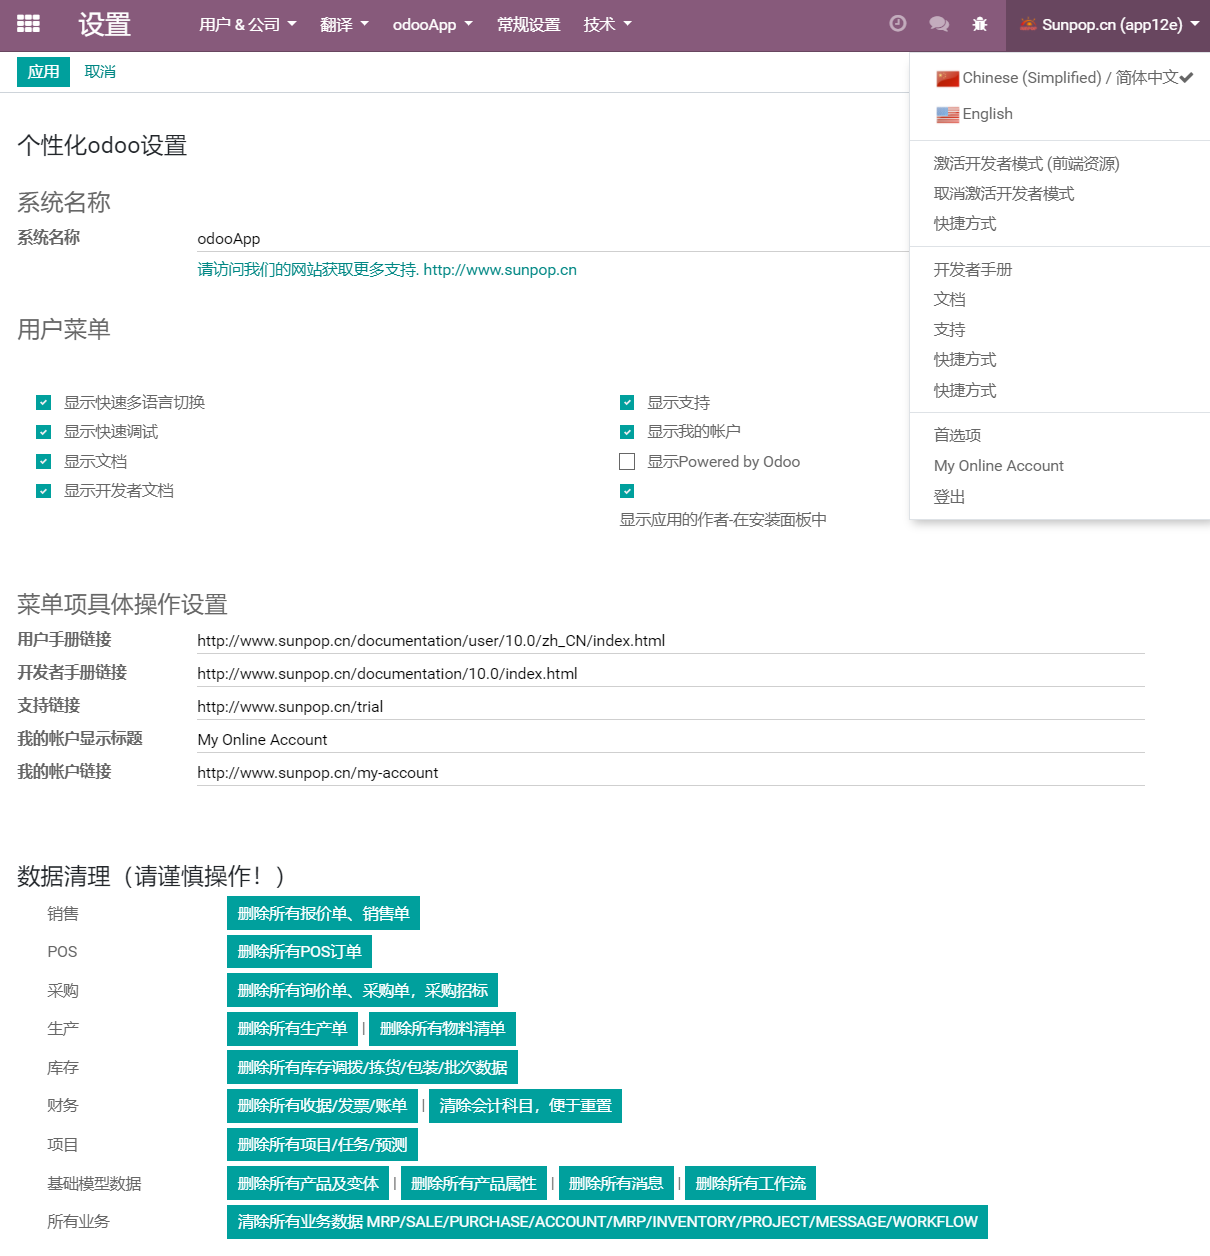
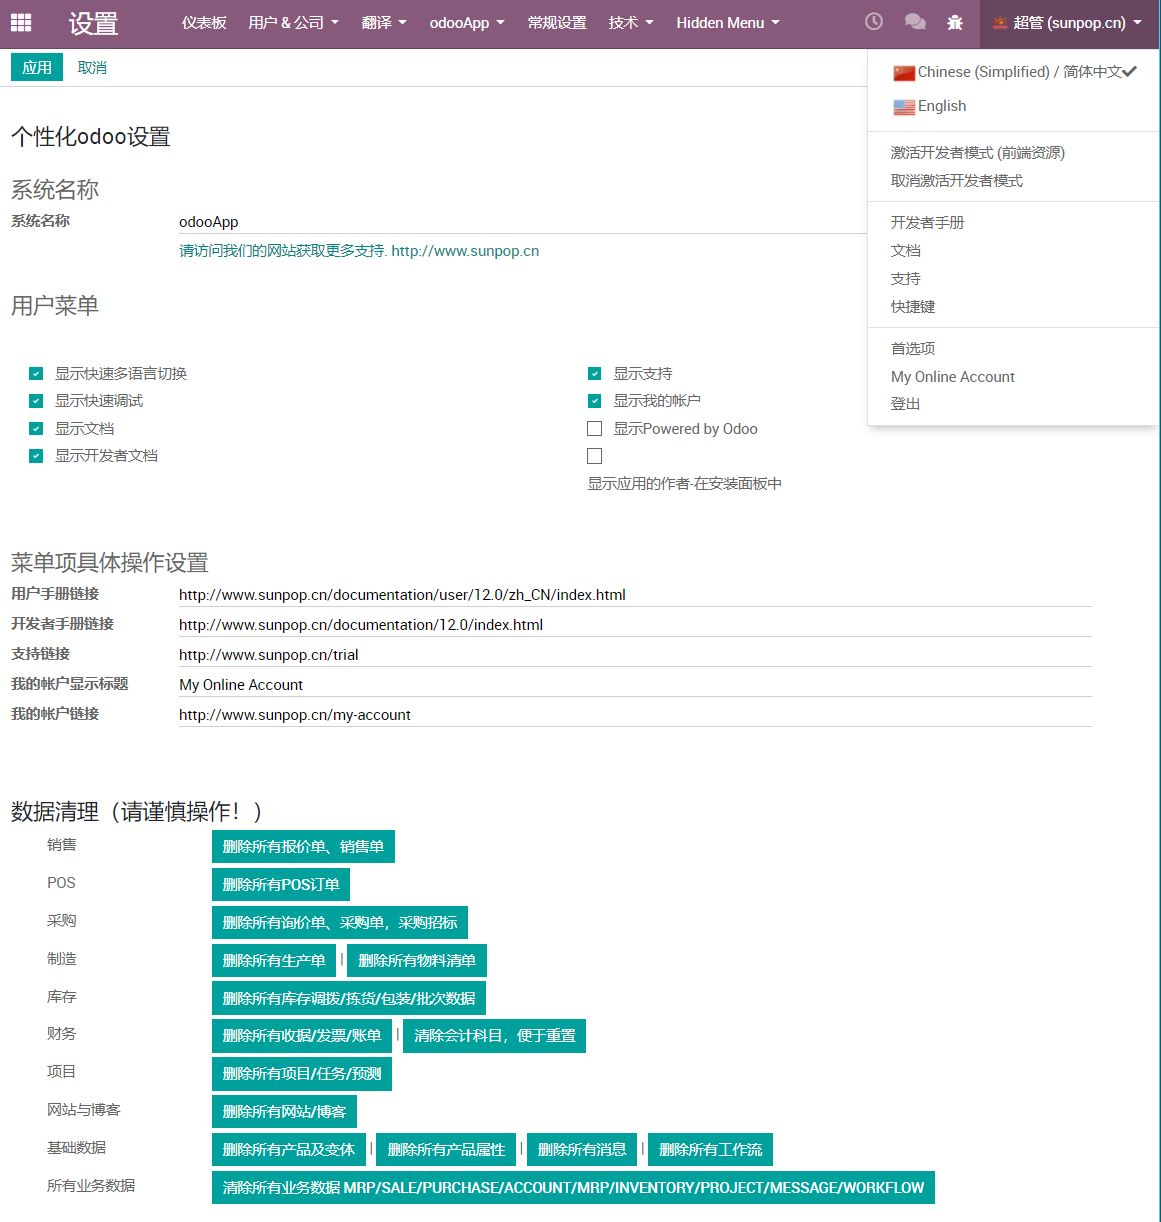
update customize

diff --git a/app_odoo_customize/static/description/index.html b/app_odoo_customize/static/description/index.html
@@ -6,6 +6,8 @@
                 <p>This moduld allows user to quickly customize and debranding Odoo. Quick debug, Language Switcher,
                     Online Documentation Access,Quick Data Clear. </p>
                 <p>Support Odoo 12, 11, 10, 9. Including communicate and enterprise version. </p>
+                <h3>Update: v12.19.3.15</h3>
+                <p>Add reset or clear website blog data</p>
                 <h3>Update: v12.19.3.12</h3>
                 <p>Optimize chinese translate and document.</p>
                 <p>Fix bug: Data clear.</p>
@@ -53,6 +55,7 @@
                     <li class="list-group-item">17. Stop Odoo Auto Subscribe(Performance Improve)</li>
                     <li class="list-group-item">18. Show/Hide Author and Website in Apps Dashboard (odoo 11 only)</li>
                     <li class="list-group-item">19. One Click to clear all data (Sometime pls click twice)</li>
+                    <li class="list-group-item">20. Show quick upgrade in app dashboard, click to show module info not go to odoo.com</li>
                     <li class="list-group-item">21. Can clear and reset account chart. Be cautious.</li>
                     <li class="list-group-item">22. Update online manual and developer document to odoo12.</li>
                 </ul>
@@ -129,6 +132,18 @@
         <p>After uncheck "Show Author in Apps Dashboard"</p>
         <div class="oe_demo oe_screenshot">
             <img src="set18-2.jpg" style="border:1px solid black"/>
+            <br/>
+        </div>
+    </div>
+
+    <div class="oe_row oe_spaced" style="max-width: 95%;">
+        <div class="oe_demo"
+             style="margin: 20px auto; padding: 0 15px 0 0; border:none; border-top:solid 1px #dedede; width: 96%;">
+            <h2 class='oe_mt32'>Show quick upgrade in app dashboard, click to show module info not go to odoo.com</h2>
+        </div>
+        <p>No more redirect to odoo.com</p>
+        <div class="oe_demo oe_screenshot">
+            <img src="set20.jpg" style="border:1px solid black"/>
             <br/>
         </div>
     </div>

diff --git a/app_odoo_customize/models/res_config_settings.py b/app_odoo_customize/models/res_config_settings.py
@@ -431,6 +431,34 @@ class ResConfigSettings(models.TransientModel):
         return True
 
     @api.multi
+    def remove_website(self):
+        to_removes = [
+            # 清除网站数据，w, w_blog
+            ['blog.tag.category', ],
+            ['blog.tag', ],
+            ['blog.post', ],
+            ['blog.blog', ],
+            ['website.published.multi.mixin', ],
+            ['website.published.mixin', ],
+            ['website.multi.mixin', ],
+            ['website.redirect', ],
+            ['website.seo.metadata', ],
+            ['website.page', ],
+            ['website.menu', ],
+            ['website', ],
+        ]
+        try:
+            for line in to_removes:
+                obj_name = line[0]
+                obj = self.pool.get(obj_name)
+                if obj and obj._table:
+                    sql = "delete from %s" % obj._table
+                    self._cr.execute(sql)
+        except Exception as e:
+            pass  # raise Warning(e)
+        return True
+
+    @api.multi
     def remove_message(self):
         to_removes = [
             # 清除消息数据

diff --git a/app_odoo_customize/__manifest__.py b/app_odoo_customize/__manifest__.py
@@ -23,7 +23,7 @@
 
 {
     'name': 'Odoo Customize(Debranding, My Odoo)',
-    'version': '12.19.3.12',
+    'version': '12.19.3.15',
     'author': 'Sunpop.cn',
     'category': 'Productivity',
     'website': 'http://www.sunpop.cn',
@@ -61,8 +61,9 @@
     18. Show/Hide Author and Website in Apps Dashboard
     19. One Click to clear all data (Sometime pls click twice)
     20. Show quick upgrade in app dashboard, click to show module info not go to odoo.com
-    21. Can clear and reset account chart. Be cautious.
-    22. Update online manual and developer document to odoo12.
+    21. Can clear and reset account chart. Be cautious
+    22. Update online manual and developer document to odoo12
+    23. Add reset or clear website blog data
     
     This module can help to white label the Odoo.
     Also helpful for training and support for your odoo end-user.

diff --git a/app_odoo_customize/readme.md b/app_odoo_customize/readme.md
@@ -23,6 +23,7 @@ You can config odoo, make it look like your own platform.
 18. Show/Hide Author and Website in Apps Dashboard (odoo 11 only)
 19. One Click to clear all data (Sometime pls click twice)
 20. Show quick upgrade in app dashboard
+21. Add reset or clear website blog data
 
 This module can help to white label the Odoo.
 Also helpful for training and support for your odoo end-user.
